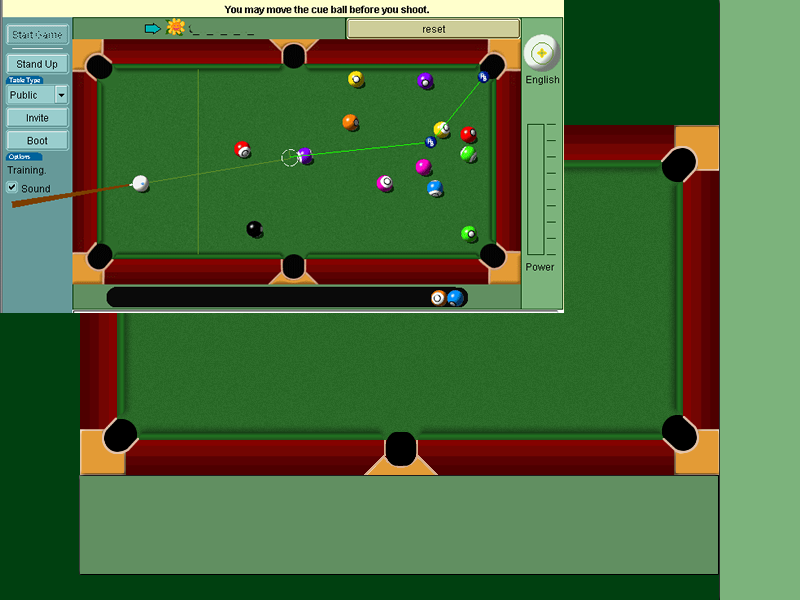
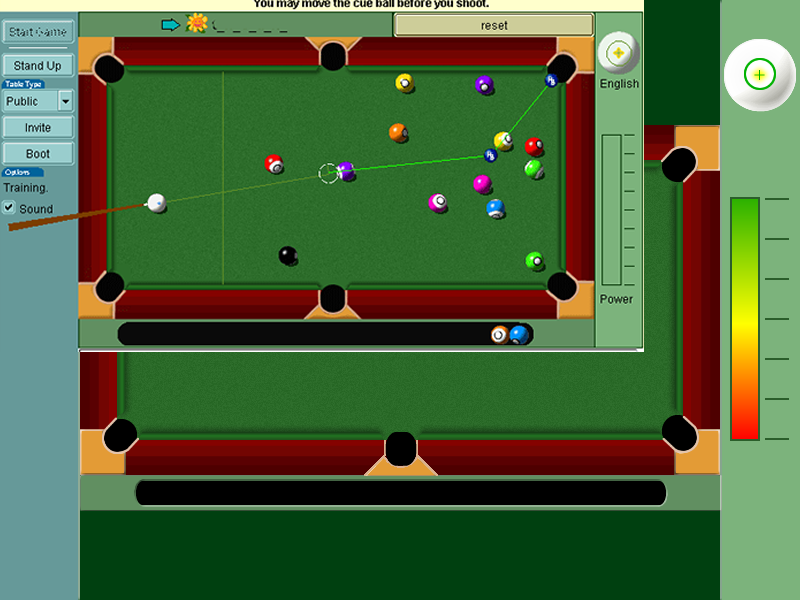
Added some images to the project for the power meter and the white effect ball

diff --git a/game.js b/game.js
@@ -42,7 +42,7 @@ Pool.Preloader.prototype = {
 
         this.load.bitmapFont('fat-and-tiny');
 
-        this.load.images([ 'logo', 'tableTwo.fw', 'ballContainer', 'rightRectangle', 'leftRectangle', 'cue', 'fill', 'line']);
+        this.load.images([ 'logo', 'tableTwo.fw', 'ballContainer', 'rightRectangle', 'leftRectangle', 'cue', 'fill', 'line', 'effectBall', 'effectPointer', 'effectPlus', 'powerMeter', 'powerLevel' ]);
 
         this.load.spritesheet('balls', 'spriteBalls.png', 24, 24);
 
@@ -90,6 +90,8 @@ Pool.Game = function (game) {
 
     this.score = 0;
     this.scoreText = null;
+    
+    this.powerText = null;
 
     this.speed = 0;
     this.allowShotSpeed = 20.0;
@@ -147,8 +149,16 @@ Pool.Game.prototype = {
 
         this.tableMaterial = this.physics.p2.createMaterial('tableMaterial', this.table.body);
         
+        // Rectangles, buttons and graphics around the pool table
         this.ballContainer = this.add.sprite(80, 476, 'ballContainer'); // The container the balls go into once you score
+
         this.rightRect = this.add.sprite(720, 0, 'rightRectangle'); // The right light green rectangle
+        this.effectBall = this.add.sprite(725, 100, 'effectBall'); // The white ball on the right side
+        this.effectPointer = this.add.sprite(740, 116, 'effectPointer'); // The effect pointer circle
+        this.effectPlus = this.add.sprite(750, 124, 'effectPlus'); // The plus sign inside the pointer circle
+        this.powerMeter = this.add.sprite(730, 200, 'powerMeter');
+        this.powerLevel = this.add.sprite(733, 202, 'powerLevel');
+
         this.leftRect = this.add.sprite(0, 0, 'leftRectangle'); // The left blue rectagle that holds the buttons
         
 
@@ -290,6 +300,9 @@ Pool.Game.prototype = {
         this.scoreText = this.add.bitmapText(100, 0, 'fat-and-tiny', 'SCORE: 0', 32);
         this.scoreText.text = "SCORE: " + this.score;
         this.scoreText.smoothed = false;
+        
+        this.powerText = this.add.bitmapText(500, 0, 'fat-and-tiny', 'POWER', 32);
+        
 
         //  Press P to pause and resume the game
         this.pauseKey = this.input.keyboard.addKey(Phaser.Keyboard.P);

diff --git a/index.js b/index.js
@@ -15,7 +15,7 @@ io.on('connection', function(socket){
 
   // Socket chat message
   socket.on('chat message', function(msg) {
-    socket.broadcast.emit('chat message', msg);
+    io.emit('chat message', msg);
   });
 
   // Socket disconnection execute following function
